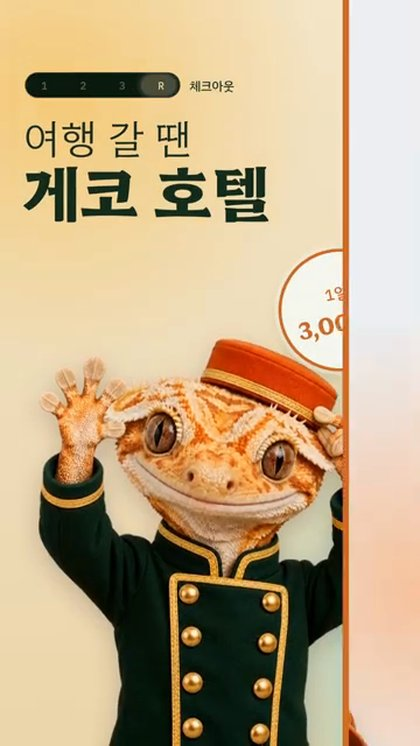
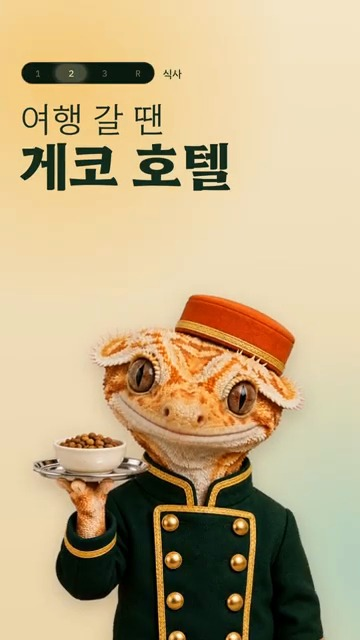
fix: Crerium 페이지 사실관계·모션그래픽 이미지 수정
- 친구 의뢰가 아니라 개인 사이드 프로젝트라는 점을 반영해 "친구" 표현을
  중립적인 "매장 운영자"로 교체
- 개발 커밋 날짜 언급을 Overview와 Summary에서 제거
- 모션그래픽 스틸 5장을 전환 중간(텍스트 겹침·미완성) 프레임에서 완전히
  자리잡은 프레임으로 교체하고, 420px로 확대하던 것을 원본 해상도(360px)
  그대로 사용해 흐려 보이던 문제를 해결

diff --git a/src/projects/crerium/index.html b/src/projects/crerium/index.html
@@ -35,10 +35,10 @@
               <span class="project-detail-eyebrow">Project Detail</span>
               <h1>Crerium</h1>
               <p class="project-detail-summary">
-                친구가 인천 영종도에서 운영하는 파충류샵 '크레리움'의 브랜드
-                홈페이지입니다. 기획, React/Canvas 프론트엔드, FastAPI
-                백엔드, 배포·운영을 혼자 맡았고 지금도 crerium.r-e.kr에서
-                실제로 운영 중입니다.
+                인천 영종도 파충류샵 '크레리움'의 브랜드 홈페이지를 개인
+                사이드 프로젝트로 기획·개발했습니다. 기획, React/Canvas
+                프론트엔드, FastAPI 백엔드, 배포·운영을 혼자 맡았고 지금도
+                crerium.r-e.kr에서 실제로 운영 중입니다.
               </p>
 
               <ul class="project-detail-meta" aria-label="프로젝트 기본 정보">
@@ -70,18 +70,16 @@
                   <p>
                     Crerium은 크레스티드 게코 분양을 중심으로 파충류·양서류
                     용품 판매, 반려동물 호텔링, 증명사진 촬영을 함께 하는
-                    매장 '크레리움'의 브랜드 홈페이지입니다. 그 전에는 네이버
-                    블로그, 스마트스토어, 카카오톡 오픈채팅에 정보가 흩어져
-                    있었습니다.
+                    매장 '크레리움'의 브랜드 홈페이지입니다. 운영에 필요한
+                    문제를 찾다가 시작한 개인 사이드 프로젝트이고, 그 전에는
+                    네이버 블로그, 스마트스토어, 카카오톡 오픈채팅에 정보가
+                    흩어져 있었습니다.
                   </p>
                   <p>
-                    2026년 10월 28일 첫 커밋 이후 약 일주일 사이에 Hero
-                    연출과 서비스 소개 화면을 올렸고, 11월 2일 관리자
-                    비밀번호 강제 변경 기능을 추가하며 지금 형태가 됐습니다.
                     기획, <b>React/Canvas 기반 프론트엔드</b>,
                     <b>FastAPI 백엔드</b>, <b>Docker 배포</b>, 운영을 전부
-                    혼자 진행했습니다. 친구는 완성된 관리자 페이지에서 공지와
-                    판매 품목을 직접 올립니다.
+                    혼자 진행했습니다. 매장 운영자는 완성된 관리자 페이지에서
+                    공지와 판매 품목을 직접 올립니다.
                   </p>
                 </div>
               </section>
@@ -274,7 +272,7 @@
                     <h4>Challenge</h4>
                     <p>
                       채널에 새 영상이 올라올 때마다 수동으로 사이트에
-                      등록해주는 건 비개발자인 친구에게 번거로운 일이었고,
+                      등록해주는 건 비개발자인 매장 운영자에게 번거로운 일이었고,
                       수집기를 여러 번 돌리면 같은 영상이 중복 저장될 수
                       있었습니다.
                     </p>
@@ -299,7 +297,7 @@
 
                     <h4>Challenge</h4>
                     <p>
-                      비개발자인 친구가 공지·상품·매장 정보를 직접 고칠 수
+                      비개발자인 매장 운영자가 공지·상품·매장 정보를 직접 고칠 수
                       있어야 했지만, 그만큼 계정이 뚫리지 않게 하는 것도
                       중요했습니다. 관리자 주소를 추측하기 어렵게 바꾸는
                       것만으로는 충분하지 않았습니다.
@@ -373,15 +371,15 @@
                 <div class="project-detail-copy">
                   <h3><b>Result</b></h3>
                   <p>
-                    crerium.r-e.kr은 실제로 접속되는 상태이고, 친구가
-                    관리자 페이지에서 공지·품목·매장 정보를 직접
+                    crerium.r-e.kr은 실제로 접속되는 상태이고, 매장
+                    운영자가 관리자 페이지에서 공지·품목·매장 정보를 직접
                     올립니다. 수집기는 채널에 새 영상이 올라오면 다음날
                     새벽 자동으로 목록에 추가합니다.
                   </p>
                   <hr />
                   <h3><b>Impact</b></h3>
                   <p>
-                    친구는 블로그·스마트스토어·오픈채팅에 나눠져 있던
+                    블로그·스마트스토어·오픈채팅에 나눠져 있던
                     정보를 하나의 브랜드 홈페이지로 모았고, 공지나 상품
                     정보가 바뀌어도 개발자 없이 관리자 페이지에서 직접
                     갱신할 수 있습니다.
@@ -501,31 +499,31 @@
                 </p>
                 <div class="project-detail-gallery__grid project-detail-gallery__grid--portrait">
                   <figure class="project-detail-gallery__item">
-                    <button type="button" class="project-detail-gallery__trigger" data-gallery-eyebrow="Motion Graphic · ~0:02" data-gallery-title="Hero" data-gallery-description="15초 세로형(9:16) 홍보 영상의 오프닝 장면입니다." aria-label="모션그래픽 Hero 장면 전체 보기">
+                    <button type="button" class="project-detail-gallery__trigger" data-gallery-eyebrow="Motion Graphic · 0:02" data-gallery-title="Hero" data-gallery-description="15초 세로형(9:16) 홍보 영상의 오프닝 장면입니다." aria-label="모션그래픽 Hero 장면 전체 보기">
                       <img src="../../assets/crerium/video/scene-01-hero.jpg" alt="모션그래픽 Hero 장면" loading="lazy" decoding="async" />
                     </button>
                     <figcaption>Hero</figcaption>
                   </figure>
                   <figure class="project-detail-gallery__item">
-                    <button type="button" class="project-detail-gallery__trigger" data-gallery-eyebrow="Motion Graphic · ~0:03" data-gallery-title="Shop 티저" data-gallery-description="크레스티드 게코부터 소개하는 샵 티저 장면입니다." aria-label="모션그래픽 Shop 티저 장면 전체 보기">
+                    <button type="button" class="project-detail-gallery__trigger" data-gallery-eyebrow="Motion Graphic · 0:03" data-gallery-title="Shop 티저" data-gallery-description="크레스티드 게코부터 소개하는 샵 티저 장면입니다. 판매 품목 사진이 번갈아 들어갑니다." aria-label="모션그래픽 Shop 티저 장면 전체 보기">
                       <img src="../../assets/crerium/video/scene-02-shop.jpg" alt="모션그래픽 Shop 티저 장면" loading="lazy" decoding="async" />
                     </button>
                     <figcaption>Shop 티저</figcaption>
                   </figure>
                   <figure class="project-detail-gallery__item">
-                    <button type="button" class="project-detail-gallery__trigger" data-gallery-eyebrow="Motion Graphic · ~0:08" data-gallery-title="호텔" data-gallery-description="사이트에 쓴 벨보이 게코 일러스트를 그대로 가져온 호텔 장면입니다." aria-label="모션그래픽 호텔 장면 전체 보기">
+                    <button type="button" class="project-detail-gallery__trigger" data-gallery-eyebrow="Motion Graphic · 0:07" data-gallery-title="호텔" data-gallery-description="사이트에 쓴 벨보이 게코 일러스트를 그대로 가져온 호텔 장면입니다." aria-label="모션그래픽 호텔 장면 전체 보기">
                       <img src="../../assets/crerium/video/scene-03-hotel.jpg" alt="모션그래픽 호텔 장면" loading="lazy" decoding="async" />
                     </button>
                     <figcaption>호텔</figcaption>
                   </figure>
                   <figure class="project-detail-gallery__item">
-                    <button type="button" class="project-detail-gallery__trigger" data-gallery-eyebrow="Motion Graphic · ~0:10" data-gallery-title="사진관" data-gallery-description="사진작가 게코 일러스트와 필름 프레임 그래픽이 등장하는 장면입니다." aria-label="모션그래픽 사진관 장면 전체 보기">
+                    <button type="button" class="project-detail-gallery__trigger" data-gallery-eyebrow="Motion Graphic · 0:11" data-gallery-title="사진관" data-gallery-description="사진작가 게코 일러스트와 필름 프레임 그래픽, 찰칵 효과음 텍스트가 함께 등장하는 장면입니다." aria-label="모션그래픽 사진관 장면 전체 보기">
                       <img src="../../assets/crerium/video/scene-04-studio.jpg" alt="모션그래픽 사진관 장면" loading="lazy" decoding="async" />
                     </button>
                     <figcaption>사진관</figcaption>
                   </figure>
                   <figure class="project-detail-gallery__item">
-                    <button type="button" class="project-detail-gallery__trigger" data-gallery-eyebrow="Motion Graphic · ~0:11" data-gallery-title="아웃트로" data-gallery-description="사이트 푸터와 같은 로고 실로 마무리되는 아웃트로 장면입니다." aria-label="모션그래픽 아웃트로 장면 전체 보기">
+                    <button type="button" class="project-detail-gallery__trigger" data-gallery-eyebrow="Motion Graphic · 0:14" data-gallery-title="아웃트로" data-gallery-description="사이트 푸터와 같은 로고 실로 마무리되는 아웃트로 장면입니다." aria-label="모션그래픽 아웃트로 장면 전체 보기">
                       <img src="../../assets/crerium/video/scene-05-outro.jpg" alt="모션그래픽 아웃트로 장면" loading="lazy" decoding="async" />
                     </button>
                     <figcaption>아웃트로</figcaption>
@@ -540,7 +538,7 @@
                 <ul class="project-detail-facts">
                   <li>
                     <strong>기간</strong>
-                    <span>2026.10.28 ~ (최근 커밋 11.02)</span>
+                    <span>2026.10 ~ 운영 중</span>
                   </li>
                   <li>
                     <strong>역할</strong>
@@ -548,7 +546,7 @@
                   </li>
                   <li>
                     <strong>형태</strong>
-                    <span>개인 사이드 프로젝트 (친구 의뢰)</span>
+                    <span>개인 사이드 프로젝트</span>
                   </li>
                   <li>
                     <strong>핵심 기여</strong>

diff --git a/src/index.html b/src/index.html
@@ -417,7 +417,7 @@
                 </ul>
                 <ul class="project-wrapper__list">
                   <li>
-                    친구가 운영하는 비바리움·크레스티드 게코 펫샵 브랜드 홈페이지를 기획부터 배포까지 혼자 진행했습니다.
+                    비바리움·크레스티드 게코 펫샵 브랜드 홈페이지를 개인 사이드 프로젝트로 기획부터 배포까지 혼자 진행했습니다.
                   </li>
                   <li>
                     잎 ~170장을 &lt;canvas&gt; 한 장에 그리는 Hero 모션과 호텔·사진관·판매 카탈로그·관리자 페이지를 구현했습니다.
